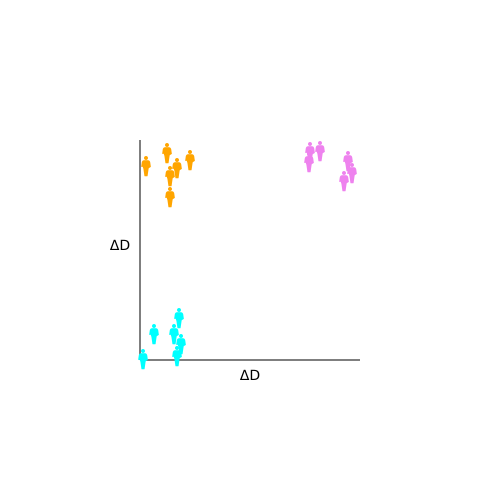
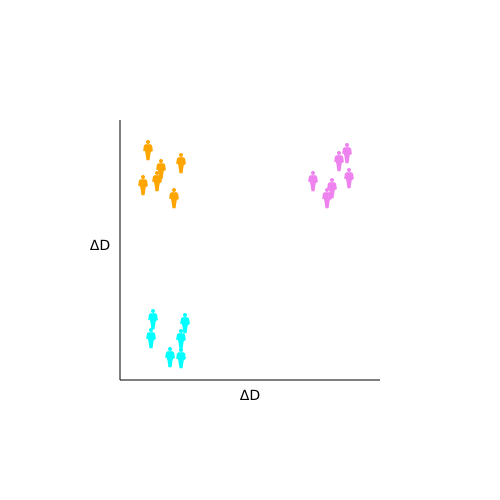
lowered the padding

Changed region(s): [[0.18, 0.27, 0.75, 0.81], [0.6, 0.27, 0.72, 0.42]]

diff --git a/utils/draw_cohort_mode_representation.py b/utils/draw_cohort_mode_representation.py
@@ -22,7 +22,7 @@ def setup(filename):
 
   # pixels from the edge of the SVG canvas towards the center
   # increase the value to move the axes closer to human figures
-  padding = 140 
+  padding = 100
   draw_axes(dwg, svg_size, padding)
       
   # Parse the SVG file for the human figure
@@ -121,7 +121,6 @@ def inter_cohort_mode_representation(pats_count):
 
   # Save the drawing
   dwg.save(pretty=True)
-
 
 pats_count = 18
 
